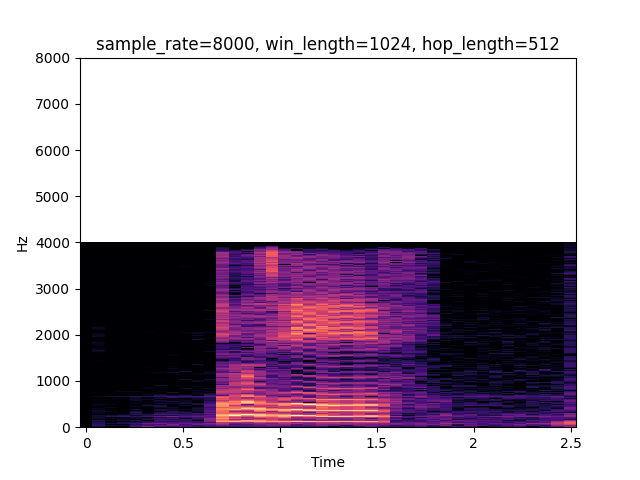
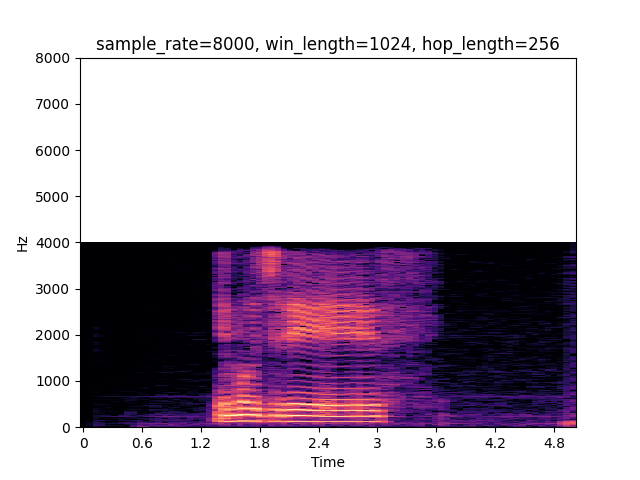
change param HOP_LENを半分に

diff --git a/mtg_review/compare_spectrogram.py b/mtg_review/compare_spectrogram.py
@@ -12,7 +12,7 @@ WAV_8K: Final[str] = f"{DIR}/8k.wav"
 
 N_FFT: Final[int] = 2048
 WIN_LEN: Final[int] = 1024
-HOP_LEN: Final[int] = WIN_LEN // 2
+HOP_LEN: Final[int] = WIN_LEN // 4
 
 
 def gen_spectrogram(file_path: str, sample_rate: int) -> plt.figure:
